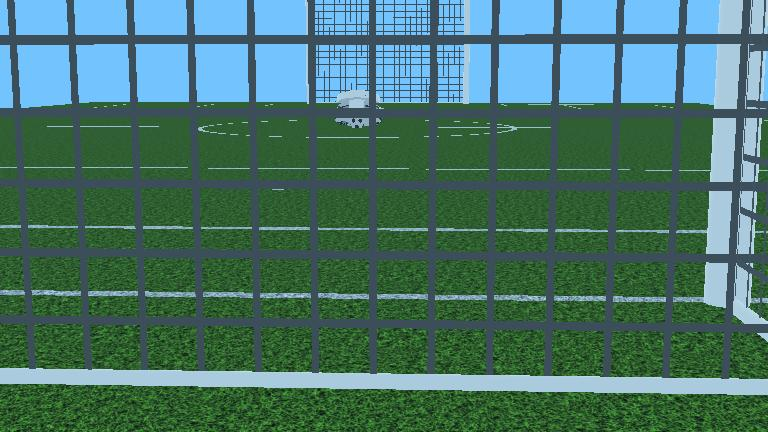
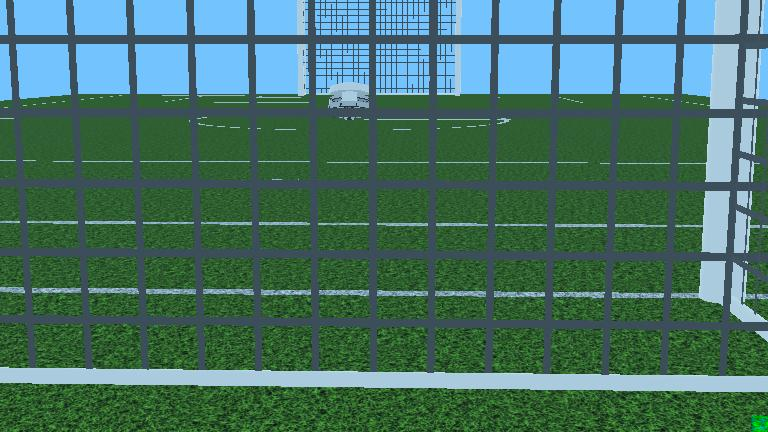
initial controller test

diff --git a/controllers/goalie_controller/goalie_controller.py b/controllers/goalie_controller/goalie_controller.py
@@ -1,0 +1,31 @@
+from controller import Robot, Supervisor
+
+class Observer:
+    def __init__(self, supervisor):
+        self.supervisor = supervisor
+
+class Strategist:
+    def __init__(self):
+        pass
+
+class Commander:
+    def __init__(self, robot):
+        self.robot = robot
+
+def main():
+    # Initialize the Supervisor
+    robot = Supervisor()
+    
+    # Get the time step of the current world
+    timestep = int(robot.getBasicTimeStep())
+    
+    print("Goalie Controller Initialized. Waiting for kickoff...")
+    
+    # Main simulation loop
+    while robot.step(timestep) != -1:
+        # We will put our logic here soon!
+        print("vsr debug line")
+        pass
+
+if __name__ == "__main__":
+    main()
